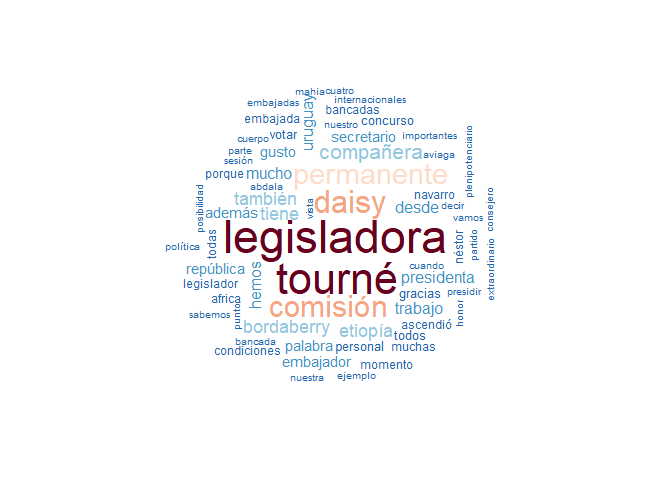
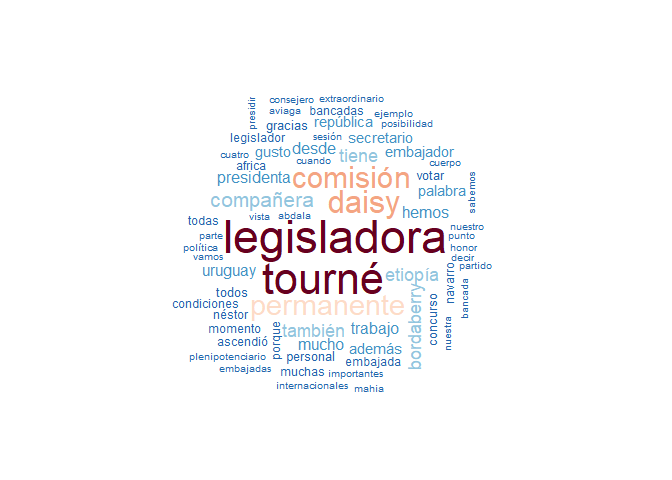
add sex version readme

Changed region(s): [[0.25, 0.1875, 0.75, 0.8438]]

diff --git a/README.md b/README.md
@@ -6,7 +6,7 @@
 <!-- badges: start -->
 
 [![CRAN\_Status\_Badge](https://www.r-pkg.org/badges/version-ago/speech)](https://cran.r-project.org/package=speech)
-[![](https://img.shields.io/badge/devel%20version-0.1.1-orange.svg)](https://github.com/Nicolas-Schmidt/speech)
+[![](https://img.shields.io/badge/devel%20version-0.1.2-orange.svg)](https://github.com/Nicolas-Schmidt/speech)
 [![R build
 status](https://github.com/Nicolas-Schmidt/speech/workflows/R-CMD-check/badge.svg)](https://github.com/Nicolas-Schmidt/speech/actions)
 [![Project Status: Active – The project has reached a stable, usable
@@ -60,19 +60,19 @@ library(speech)
 url <- "https://parlamento.gub.uy/documentosyleyes/documentos/diario-de-sesion/comisionpermanente/6084/IMG/0?width=800&height=600&hl=en_US1&iframe=true&rel=nofollow"
 text <- speech::speech_build(file = url)
 text
-#> # A tibble: 24 x 6
-#>    legislator speech              chamber   date       legislature id           
-#>    <chr>      <chr>               <chr>     <date>           <dbl> <chr>        
-#>  1 BORDABERRY SEÑOR BORDABERRY. ~ COMISION~ 2019-09-17          48 0?width=800&~
-#>  2 BORDABERRY SEÑOR BORDABERRY. ~ COMISION~ 2019-09-17          48 0?width=800&~
-#>  3 AVIAGA     SEÑORA AVIAGA. Pid~ COMISION~ 2019-09-17          48 0?width=800&~
-#>  4 AVIAGA     SEÑORA AVIAGA. En ~ COMISION~ 2019-09-17          48 0?width=800&~
-#>  5 GOI        SEÑOR GOÑI. Pido l~ COMISION~ 2019-09-17          48 0?width=800&~
-#>  6 GOI        SEÑOR GOÑI. El Fre~ COMISION~ 2019-09-17          48 0?width=800&~
-#>  7 MAHIA      SEÑOR MAHIA. Pido ~ COMISION~ 2019-09-17          48 0?width=800&~
-#>  8 MAHIA      SEÑOR MAHIA. Graci~ COMISION~ 2019-09-17          48 0?width=800&~
-#>  9 ABDALA     SEÑOR ABDALA. Voto~ COMISION~ 2019-09-17          48 0?width=800&~
-#> 10 ASTI       SEÑOR ASTI. Obviam~ COMISION~ 2019-09-17          48 0?width=800&~
+#> # A tibble: 24 x 7
+#>    legislator speech          chamber   date       legislature id            sex
+#>    <chr>      <chr>           <chr>     <date>           <dbl> <chr>       <dbl>
+#>  1 BORDABERRY SEÑOR BORDABER~ COMISION~ 2019-09-17          48 0?width=80~     1
+#>  2 BORDABERRY SEÑOR BORDABER~ COMISION~ 2019-09-17          48 0?width=80~     1
+#>  3 AVIAGA     SEÑORA AVIAGA.~ COMISION~ 2019-09-17          48 0?width=80~     0
+#>  4 AVIAGA     SEÑORA AVIAGA.~ COMISION~ 2019-09-17          48 0?width=80~     0
+#>  5 GOI        SEÑOR GOÑI. Pi~ COMISION~ 2019-09-17          48 0?width=80~     1
+#>  6 GOI        SEÑOR GOÑI. El~ COMISION~ 2019-09-17          48 0?width=80~     1
+#>  7 MAHIA      SEÑOR MAHIA. P~ COMISION~ 2019-09-17          48 0?width=80~     1
+#>  8 MAHIA      SEÑOR MAHIA. G~ COMISION~ 2019-09-17          48 0?width=80~     1
+#>  9 ABDALA     SEÑOR ABDALA. ~ COMISION~ 2019-09-17          48 0?width=80~     1
+#> 10 ASTI       SEÑOR ASTI. Ob~ COMISION~ 2019-09-17          48 0?width=80~     1
 #> # ... with 14 more rows
 
 
@@ -91,50 +91,51 @@ speech_check(text, initial = c("A", "M"))
 
 text <- speech_legis_replace(tidy_speech = text, old = "GOI", new = "GOÑI")
 text
-#> # A tibble: 24 x 6
-#>    legislator speech              chamber   date       legislature id           
-#>    <chr>      <chr>               <chr>     <date>           <dbl> <chr>        
-#>  1 BORDABERRY SEÑOR BORDABERRY. ~ COMISION~ 2019-09-17          48 0?width=800&~
-#>  2 BORDABERRY SEÑOR BORDABERRY. ~ COMISION~ 2019-09-17          48 0?width=800&~
-#>  3 AVIAGA     SEÑORA AVIAGA. Pid~ COMISION~ 2019-09-17          48 0?width=800&~
-#>  4 AVIAGA     SEÑORA AVIAGA. En ~ COMISION~ 2019-09-17          48 0?width=800&~
-#>  5 GOÑI       SEÑOR GOÑI. Pido l~ COMISION~ 2019-09-17          48 0?width=800&~
-#>  6 GOÑI       SEÑOR GOÑI. El Fre~ COMISION~ 2019-09-17          48 0?width=800&~
-#>  7 MAHIA      SEÑOR MAHIA. Pido ~ COMISION~ 2019-09-17          48 0?width=800&~
-#>  8 MAHIA      SEÑOR MAHIA. Graci~ COMISION~ 2019-09-17          48 0?width=800&~
-#>  9 ABDALA     SEÑOR ABDALA. Voto~ COMISION~ 2019-09-17          48 0?width=800&~
-#> 10 ASTI       SEÑOR ASTI. Obviam~ COMISION~ 2019-09-17          48 0?width=800&~
+#> # A tibble: 24 x 7
+#>    legislator speech          chamber   date       legislature id            sex
+#>    <chr>      <chr>           <chr>     <date>           <dbl> <chr>       <dbl>
+#>  1 BORDABERRY SEÑOR BORDABER~ COMISION~ 2019-09-17          48 0?width=80~     1
+#>  2 BORDABERRY SEÑOR BORDABER~ COMISION~ 2019-09-17          48 0?width=80~     1
+#>  3 AVIAGA     SEÑORA AVIAGA.~ COMISION~ 2019-09-17          48 0?width=80~     0
+#>  4 AVIAGA     SEÑORA AVIAGA.~ COMISION~ 2019-09-17          48 0?width=80~     0
+#>  5 GOÑI       SEÑOR GOÑI. Pi~ COMISION~ 2019-09-17          48 0?width=80~     1
+#>  6 GOÑI       SEÑOR GOÑI. El~ COMISION~ 2019-09-17          48 0?width=80~     1
+#>  7 MAHIA      SEÑOR MAHIA. P~ COMISION~ 2019-09-17          48 0?width=80~     1
+#>  8 MAHIA      SEÑOR MAHIA. G~ COMISION~ 2019-09-17          48 0?width=80~     1
+#>  9 ABDALA     SEÑOR ABDALA. ~ COMISION~ 2019-09-17          48 0?width=80~     1
+#> 10 ASTI       SEÑOR ASTI. Ob~ COMISION~ 2019-09-17          48 0?width=80~     1
 #> # ... with 14 more rows
 
 text <- speech::speech_build(file = url, compiler = TRUE)
 text
-#> # A tibble: 11 x 6
-#>    legislator legislature chamber    date       id            speech            
-#>    <chr>            <dbl> <chr>      <date>     <chr>         <chr>             
-#>  1 ABDALA              48 COMISION ~ 2019-09-17 0?width=800&~ SEÑOR ABDALA. Vot~
-#>  2 ASTI                48 COMISION ~ 2019-09-17 0?width=800&~ SEÑOR ASTI. Obvia~
-#>  3 AVIAGA              48 COMISION ~ 2019-09-17 0?width=800&~ SEÑORA AVIAGA. Pi~
-#>  4 BORDABERRY          48 COMISION ~ 2019-09-17 0?width=800&~ SEÑOR BORDABERRY.~
-#>  5 GOI                 48 COMISION ~ 2019-09-17 0?width=800&~ SEÑOR GOÑI. Pido ~
-#>  6 LAZO                48 COMISION ~ 2019-09-17 0?width=800&~ SEÑORA LAZO. Voto~
-#>  7 MAHIA               48 COMISION ~ 2019-09-17 0?width=800&~ SEÑOR MAHIA. Pido~
-#>  8 MERONI              48 COMISION ~ 2019-09-17 0?width=800&~ SEÑOR MERONI. Vot~
-#>  9 PEREYRA             48 COMISION ~ 2019-09-17 0?width=800&~ SEÑORA PEREYRA. C~
-#> 10 TOURNE              48 COMISION ~ 2019-09-17 0?width=800&~ SEÑORA TOURNE. Vo~
-#> 11 VIERA               48 COMISION ~ 2019-09-17 0?width=800&~ SEÑOR VIERA. Voto~
+#> # A tibble: 11 x 7
+#>    legislator legislature chamber   date       id           speech           sex
+#>    <chr>            <dbl> <chr>     <date>     <chr>        <chr>          <dbl>
+#>  1 ABDALA              48 COMISION~ 2019-09-17 0?width=800~ SEÑOR ABDALA.~     1
+#>  2 ASTI                48 COMISION~ 2019-09-17 0?width=800~ SEÑOR ASTI. O~     1
+#>  3 AVIAGA              48 COMISION~ 2019-09-17 0?width=800~ SEÑORA AVIAGA~     0
+#>  4 BORDABERRY          48 COMISION~ 2019-09-17 0?width=800~ SEÑOR BORDABE~     1
+#>  5 GOI                 48 COMISION~ 2019-09-17 0?width=800~ SEÑOR GOÑI. P~     1
+#>  6 LAZO                48 COMISION~ 2019-09-17 0?width=800~ SEÑORA LAZO. ~     0
+#>  7 MAHIA               48 COMISION~ 2019-09-17 0?width=800~ SEÑOR MAHIA. ~     1
+#>  8 MERONI              48 COMISION~ 2019-09-17 0?width=800~ SEÑOR MERONI.~     1
+#>  9 PEREYRA             48 COMISION~ 2019-09-17 0?width=800~ SEÑORA PEREYR~     0
+#> 10 TOURNE              48 COMISION~ 2019-09-17 0?width=800~ SEÑORA TOURNE~     0
+#> 11 VIERA               48 COMISION~ 2019-09-17 0?width=800~ SEÑOR VIERA. ~     1
 
 
 text$word <- speech_word_count(text$speech)
 
 dplyr::glimpse(text)
 #> Rows: 11
-#> Columns: 7
-#> $ legislator  <chr> "ABDALA", "ASTI", "AVIAGA", "BORDABERRY", "GOI", "LAZO"...
+#> Columns: 8
+#> $ legislator  <chr> "ABDALA", "ASTI", "AVIAGA", "BORDABERRY", "GOI", "LAZO", "~
 #> $ legislature <dbl> 48, 48, 48, 48, 48, 48, 48, 48, 48, 48, 48
-#> $ chamber     <chr> "COMISION PERMANENTE", "COMISION PERMANENTE", "COMISION...
-#> $ date        <date> 2019-09-17, 2019-09-17, 2019-09-17, 2019-09-17, 2019-0...
-#> $ id          <chr> "0?width=800&height=600&hl=en_US1&iframe=true&rel=nofol...
-#> $ speech      <chr> "SEÑOR ABDALA. Voto por la señora legisladora Daisy Tou...
+#> $ chamber     <chr> "COMISION PERMANENTE", "COMISION PERMANENTE", "COMISION PE~
+#> $ date        <date> 2019-09-17, 2019-09-17, 2019-09-17, 2019-09-17, 2019-09-17~
+#> $ id          <chr> "0?width=800&height=600&hl=en_US1&iframe=true&rel=nofollo~
+#> $ speech      <chr> "SEÑOR ABDALA. Voto por la señora legisladora Daisy Tourné~
+#> $ sex         <dbl> 1, 1, 0, 1, 1, 0, 1, 1, 0, 0, 1
 #> $ word        <int> 400, 46, 107, 963, 100, 103, 128, 12, 12, 111, 8
 ```
 
@@ -153,7 +154,9 @@ text$speech %>%
     minchar(., min = 4) %>%  
     quanteda::corpus() %>% 
     quanteda::dfm(remove = c("señor", "señora")) %>% 
-    quanteda::textplot_wordcloud(color = rev(RColorBrewer::brewer.pal(10, "RdBu")))
+    quanteda.textplots::textplot_wordcloud(color = rev(RColorBrewer::brewer.pal(10, "RdBu")))
+#> Warning: 'dfm.corpus()' is deprecated. Use 'tokens()' first.
+#> Warning: 'remove' is deprecated; use dfm_remove() instead
 ```
 
 <img src="man/figures/README-unnamed-chunk-2-1.png" width="100%" />
@@ -192,7 +195,7 @@ citation(package = 'speech')
 #> To cite package 'speech' in publications use:
 #> 
 #>   Nicolas Schmidt, Diego Lujan and Juan Andres Moraes (NA). speech:
-#>   Legislative Speeches. R package version 0.1.1.
+#>   Legislative Speeches. R package version 0.1.2.
 #>   https://github.com/Nicolas-Schmidt/speech
 #> 
 #> A BibTeX entry for LaTeX users is
@@ -200,7 +203,7 @@ citation(package = 'speech')
 #>   @Manual{,
 #>     title = {speech: Legislative Speeches},
 #>     author = {Nicolas Schmidt and Diego Lujan and Juan Andres Moraes},
-#>     note = {R package version 0.1.1},
+#>     note = {R package version 0.1.2},
 #>     url = {https://github.com/Nicolas-Schmidt/speech},
 #>   }
 ```
